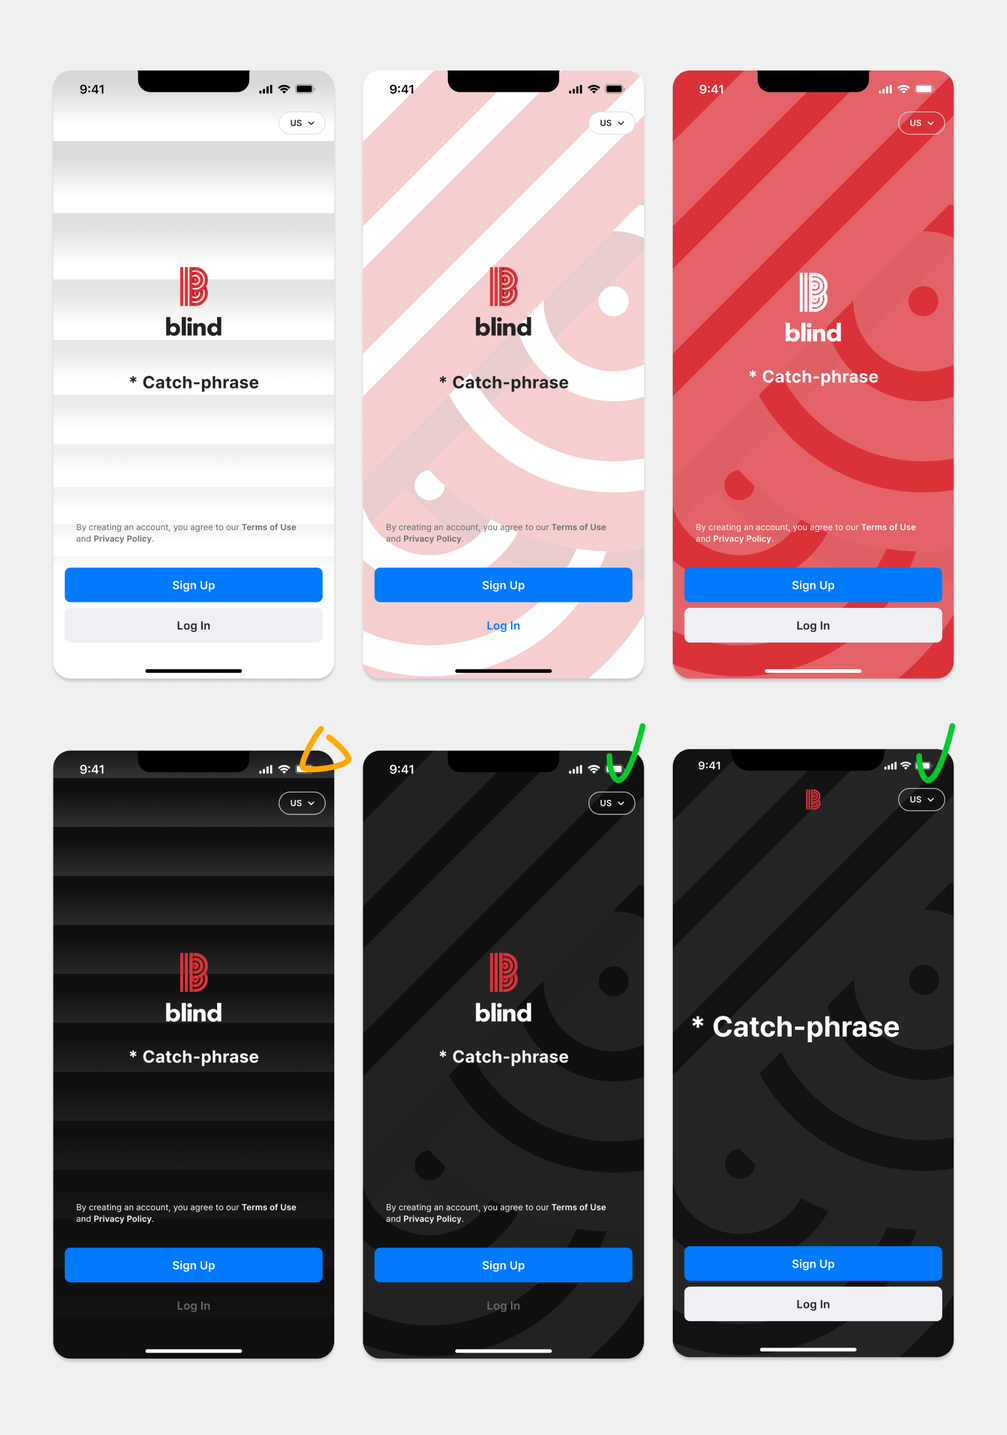
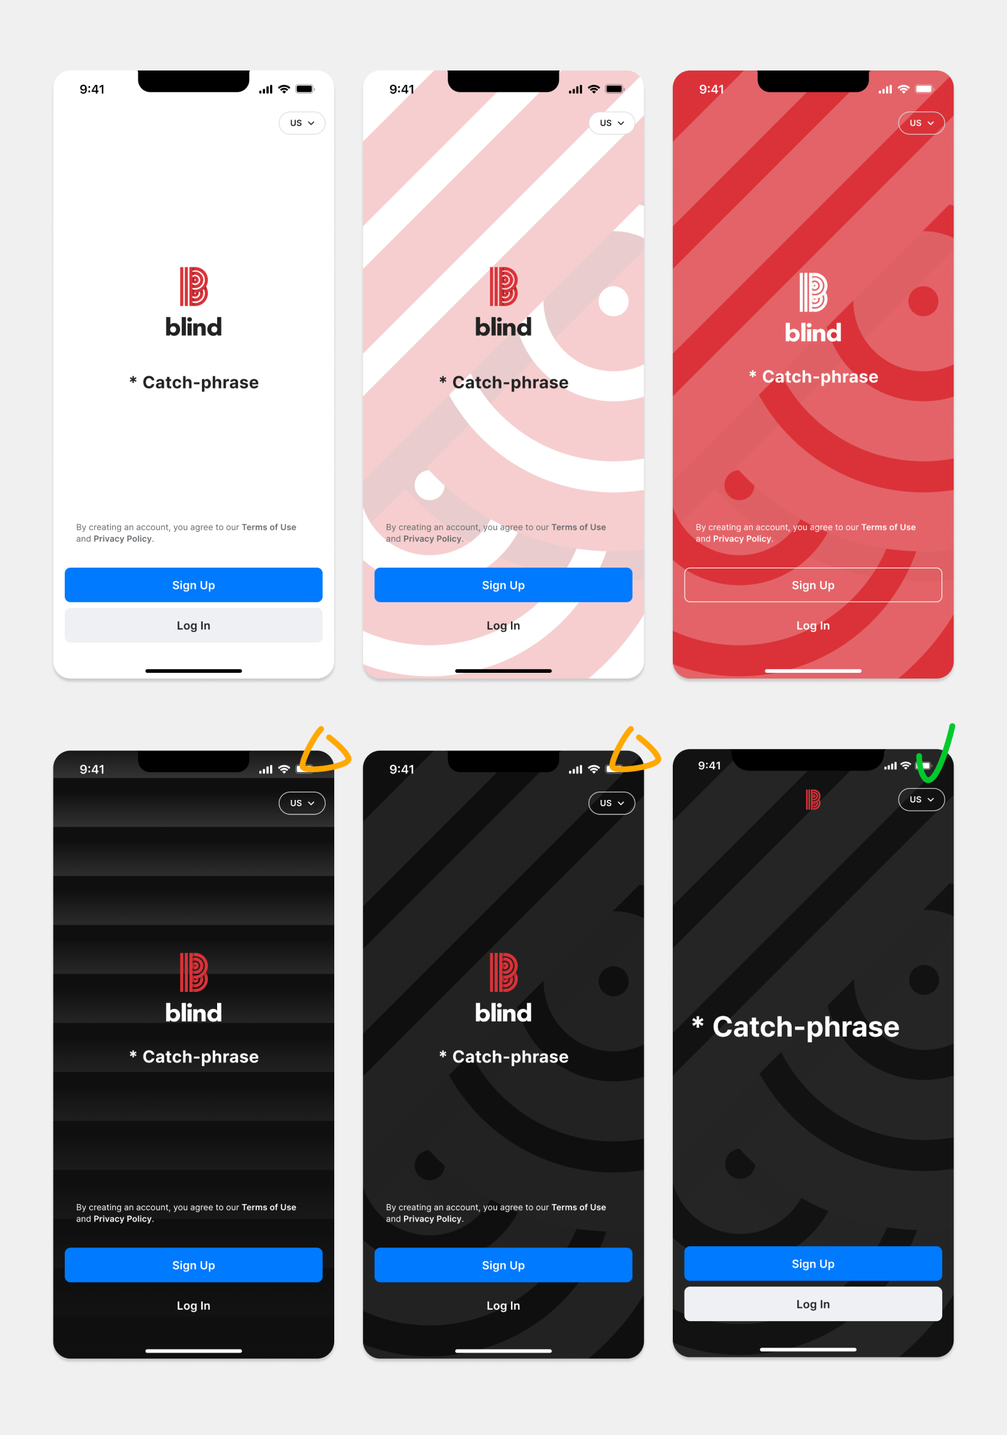
add project content

Changed region(s): [[0.0312, 0.0311, 0.3438, 0.218], [0.6562, 0.3737, 0.9375, 0.4671], [0.5938, 0.4982, 0.6562, 0.5605]]

diff --git a/onboarding/index.html b/onboarding/index.html
@@ -79,43 +79,36 @@
             <div class="cell">
                 <h2>Overview</h2>
                 <!--
-                <p>3.0 업데이트에 따라 블라인드의 대부분 화면이 새로운 비주얼과 UX로 변경되었지만 글쓰기 화면은 포함되지 못했습니다. 따라서 지난 데이터를 연구해 불필요한 사용자 경험을 제거하고 3.0 디자인 업데이트에 알맞은 GUI로 개선했습니다.</p>
+                <p lang="ko">블라인드의 온보딩 화면에 대한 개선은 이미 계획되어 있었고, 사용자들의 가입률과 편의성을 개선하고 브랜드 정체성을 강화시킬 수 있는 방법을 모색했습니다.</p>
                 -->
-                <p>With the 3.0 update, the majority of Blind's interface underwent a transformation with new visuals
-                    and improved user experience. However, the writing screen was not included in this update.
-                    Therefore, based on research of past data, we worked on enhancing the user experience by removing
-                    unnecessary elements and adapting the new GUI to align with the 3.0 design update. </p>
+                <p>Improvements to Blind's onboarding screen were already planned, aiming to enhance user signup rates,
+                    user convenience, and strengthen the brand identity. The goal was to explore methods that could
+                    improve the overall user experience and contribute to the brand's identity.</p>
                 <picture><img src="./source/onboarding-overview.jpg">
-                    <p class="caption">Blind 2.0</p>
+                    <p class="caption">As-is: Blind 2.0</p>
                 </picture>
                 <!--
-                <p>기존 블라인드의 글쓰기 경험은 게시글의 타입을 미리 선택할 수 있었습니다. 지난 데이터를 분석해 본 결과로 'Link'타입의 게시글의 비중이 굉장히 낮았으며, 'Link'를 포함한 게시글 또한 의미 있는 데이터를 보여주지 못했습니다. 따라서 글쓰기 화면 진입 시점에 게시글 타입을 선택하는 UI를 제거하고 즉시 글쓰기 화면으로 이동하도록 변경해 글쓰기 화면을 개선했습니다.</p>
+                <p lang="ko">사용자 데이터를 파악한 결과, 기존 블라인드 온보딩 화면의 여러 가이드 문구는 제대로 동작하지 않는다는 것을 파악했습니다. 따라서 불필요한 구성요소를 제거하고 각 기능의 우선순위를 새로 파악해 화면을 새로 구성하도록 기획했습니다.</p>
                 -->
-                <p>The writing experience on the existing Blind allowed users to pre-select the type of post.
-                    Upon analyzing past data, it was evident that the proportion of 'Link' type posts was remarkably
-                    low, and posts including links did not provide meaningful data. As a result, we improved the writing
-                    interface by removing the UI prompt to select the post type upon entering the writing screen.
-                    Instead, users are now immediately directed to the writing interface, streamlining the experience
-                    and eliminating the need for a separate post type selection step.</p>
+                <p>Upon analyzing user data, it was identified that several guide texts on the existing Blind onboarding
+                    screen were not functioning correctly. Consequently, a plan was devised to remove unnecessary
+                    components and restructure the screen by reassessing the priority of each feature.</p>
             </div>
             <div class="row">
                 <picture><img src="./source/onboarding-ui-01.jpg">
-                    <p class="caption">Blind 2.0: Onboarding catch-phrase</p>
+                    <p class="caption">As-is: Onboarding catch-phrase</p>
                 </picture>
             </div>
             <div class="cell">
                 <h2>Hero screen</h2>
                 <!--
-                <p>기존 블라인드의 글쓰기 경험은 게시글의 타입을 미리 선택할 수 있었습니다. 지난 데이터를 분석해 본 결과로 'Link'타입의 게시글의 비중이 굉장히 낮았으며, 'Link'를 포함한 게시글 또한 의미 있는 데이터를 보여주지 못했습니다. 따라서 글쓰기 화면 진입 시점에 게시글 타입을 선택하는 UI를 제거하고 즉시 글쓰기 화면으로 이동하도록 변경해 글쓰기 화면을 개선했습니다.</p>
+                <p lang="ko">기존 블라인드 온보딩 화면을 업데이트하면서, 가장 우선이 되는 사용자 옵션을 강조하는 형태로 변경되었습니다. 또한 브랜드 플레이를 통한 블라인드 고유의 패턴, 캐치프레이즈를 통해 브랜드 아이덴티티를 효과적으로 개선했습니다.</p>
                 -->
-                <p>The writing experience on the existing Blind allowed users to pre-select the type of post.
-                    Upon analyzing past data, it was evident that the proportion of 'Link' type posts was remarkably
-                    low, and posts including links did not provide meaningful data. As a result, we improved the writing
-                    interface by removing the UI prompt to select the post type upon entering the writing screen.
-                    Instead, users are now immediately directed to the writing interface, streamlining the experience
-                    and eliminating the need for a separate post type selection step.</p>
+                <p>During the update of the existing Blind onboarding screen, the focus shifted towards highlighting the
+                    most prioritized user options. Additionally, the incorporation of Blind's unique patterns and
+                    catchphrases through brand plays effectively enhanced the brand identity.</p>
                 <picture><img src="./source/onboarding-ui-02.jpg">
-                    <p class="caption">Blind 3.0</p>
+                    <p class="caption">To-be: Blind 3.0</p>
                 </picture>
             </div>
             <div class="row">
@@ -126,15 +119,15 @@
             <div class="cell">
                 <h2>Sign up UX</h2>
                 <!--
-                <p>기존 블라인드의 글쓰기 경험은 게시글의 타입을 미리 선택할 수 있었습니다. 지난 데이터를 분석해 본 결과로 'Link'타입의 게시글의 비중이 굉장히 낮았으며, 'Link'를 포함한 게시글 또한 의미 있는 데이터를 보여주지 못했습니다. 따라서 글쓰기 화면 진입 시점에 게시글 타입을 선택하는 UI를 제거하고 즉시 글쓰기 화면으로 이동하도록 변경해 글쓰기 화면을 개선했습니다.</p>
+                <p lang="ko">새로운 회원가입 프로세스는 사용자들이 회사 이메일을 사용할 수 있도록 강조된 화면을 제공하며, 개인용 이메일로 가입을 원하는 사용자들에게 회사 이메일과의 차이점을 안내해 다시 한번 회사 이메일로 가입할 수 있도록 유도하고 있습니다.</p>
                 -->
-                <p>The writing experience on the existing Blind allowed users to pre-select the type of post.
-                    Upon analyzing past data, it was evident that the proportion of 'Link' type posts was remarkably
-                    low, and posts including links did not provide meaningful data. As a result, we improved the writing
-                    interface by removing the UI prompt to select the post type upon entering the writing screen.
-                    Instead, users are now immediately directed to the writing interface, streamlining the experience
-                    and eliminating the need for a separate post type selection step.</p>
-                <picture><img src="./source/onboarding-ui-04.jpg"></picture>
+                <p>The new sign-up process emphasizes a screen where users can use their company email. For users who
+                    prefer to sign up with a personal email, guidance is provided explaining the differences between
+                    personal and company emails, encouraging them to reconsider and opt for the company email once
+                    again.</p>
+                <picture><img src="./source/onboarding-ui-04.jpg">
+                    <p class="caption">Permissions comparison: Work vs Personal email</p>
+                </picture>
             </div>
             <div class="row">
                 <picture><img src="./source/onboarding-ui-05.jpg">
@@ -142,21 +135,27 @@
                 </picture>
             </div>
             <div class="cell">
+                <h2>Performance</h2>
                 <!--
-                <p>기존 블라인드의 글쓰기 경험은 게시글의 타입을 미리 선택할 수 있었습니다. 지난 데이터를 분석해 본 결과로 'Link'타입의 게시글의 비중이 굉장히 낮았으며, 'Link'를 포함한 게시글 또한 의미 있는 데이터를 보여주지 못했습니다. 따라서 글쓰기 화면 진입 시점에 게시글 타입을 선택하는 UI를 제거하고 즉시 글쓰기 화면으로 이동하도록 변경해 글쓰기 화면을 개선했습니다.</p>
+                <p lang="ko">이 프로젝트를 통해 블라인드 브랜드의 비주얼 아이덴티티를 강화하고 블라인드 존재 의미를 사용자들에게 각인시킬 수 있었습니다. 또한 사용자들의 회원가입 절차 진입에 대한 전환율을 소폭 상승시켰습니다.</p>
                 -->
-                <p>The writing experience on the existing Blind allowed users to pre-select the type of post.
-                    Upon analyzing past data, it was evident that the proportion of 'Link' type posts was remarkably
-                    low, and posts including links did not provide meaningful data. As a result, we improved the writing
-                    interface by removing the UI prompt to select the post type upon entering the writing screen.
-                    Instead, users are now immediately directed to the writing interface, streamlining the experience
-                    and eliminating the need for a separate post type selection step.</p>
+                <p>
+                    Through this project, it was possible to strengthen the visual identity of the Blind brand and
+                    imprint the brand's sense of existence onto users. Additionally, there was a slight increase in the
+                    conversion rate for users entering the sign-up process.<br><br>
+                    <a href="https://apps.apple.com/us/app/blind-professional-community/id737534965"
+                        target="_blank">Blind /Download
+                        <svg width="24" height="24" viewBox="0 0 24 24" fill="none">
+                            <path
+                                d="M20.5 5C20.5 4.17157 19.8284 3.5 19 3.5H8C7.1716 3.5 6.5 4.17157 6.5 5C6.5 5.82843 7.1716 6.5 8 6.5H15.3787L2.9393 18.9393C2.3536 19.5251 2.3536 20.4749 2.9393 21.0607C3.5251 21.6464 4.4749 21.6464 5.0607 21.0607L17.5 8.62132V16C17.5 16.8284 18.1716 17.5 19 17.5C19.8284 17.5 20.5 16.8284 20.5 16V5Z" />
+                        </svg></a>
+                </p>
                 <picture><img src="./source/onboarding-performance.jpg"></picture>
                 <hr>
                 <h3>Blind onboarding 2.0</h3>
                 <p><strong>Company:</strong> Blind<br><strong>Role:</strong> Product design<br>
-                    <strong>Responsibilities:</strong> Led the design process to apply a common specification of design
-                    across Blind in both Korea and the U.S based on past data.<br>
+                    <strong>Responsibilities:</strong> Closely collaborated with the U.S Design Lead, taking the lead in
+                    designing the visual identity and the sign-up process.<br>
                     <strong>Tools:</strong> Figma, Mixpanel<br><strong>Duration:</strong> Teamwork, 2022
                 </p>
             </div>

diff --git a/offereval/index.html b/offereval/index.html
@@ -79,7 +79,7 @@
             <div class="cell">
                 <h2>Overview</h2>
                 <!--
-                <p>2022년 미국 고용시장의 대규모 구조조정 사태에 따라 블라인드의 많은 사용자들은 블라인드를 통해 새로운 기회를 찾고 다른 사용자들의 의견을 통해 비교하고 있었습니다. 블라인드는 이 기회를 통해 사용자들이 더 편리하게 Offer를 비교하고 소통할 수 있도록 새로운 입력 포맷을 제공해 앱의 콘텐츠 다양성과 사용자 데이터를 확보할 수 있도록 했습니다.</p>
+                <p lang="ko">2022년 미국 고용시장의 대규모 구조조정 사태에 따라 블라인드의 많은 사용자들은 블라인드를 통해 새로운 기회를 찾고 다른 사용자들의 의견을 통해 비교하고 있었습니다. 블라인드는 이 기회를 통해 사용자들이 더 편리하게 Offer를 비교하고 소통할 수 있도록 새로운 입력 포맷을 제공해 앱의 콘텐츠 다양성과 사용자 데이터를 확보할 수 있도록 했습니다.</p>
                 -->
                 <p>In 2022, following significant workforce restructuring events in the U.S. job market, many Blind
                     users were leveraging the platform to explore new opportunities and compare them through the
@@ -88,7 +88,7 @@
                     diversify the content on the app and gather user data effectively.</p>
                 <picture><img src="./source/offereval-overview.jpg"></picture>
                 <!--
-                <p>기존 블라인드 사용자들은 각 Offer 비교 항목을 직접 작성하는 경험을 갖고 있었고 이를 당연하게 여기고 있었습니다. 사용자의 불편한 경험을 직접적으로 해소하는 기능을 선제적으로 제공함으로써 블라인드와 사용자를 더 강하게 연결하길 기대했습니다.</p>
+                <p lang="ko">기존 블라인드 사용자들은 각 Offer 비교 항목을 직접 작성하는 경험을 갖고 있었고 이를 당연하게 여기고 있었습니다. 사용자의 불편한 경험을 직접적으로 해소하는 기능을 선제적으로 제공함으로써 블라인드와 사용자를 더 강하게 연결하길 기대했습니다.</p>
                 -->
                 <p>Existing Blind users had the experience of directly entering each offer comparison item and regarded
                     it as a natural part of the process. By proactively providing a feature that directly addressed
@@ -106,7 +106,7 @@
             </div>
             <div class="cell">
                 <!--
-                <p>미국의 대규모 구조조정 사태 이후 전체 게시글 중 24%에 해당하는 게시글이 'Offer evaluation'과 연관되어 있었습니다. 이 중 새로운 입력 포맷을 통해 40%에 해당하는 게시글을 새로운 입력 포맷으로 게시글이 생산될 수 있도록 목표 설정을 했습니다. 또한 더 편리한 입력 포맷을 제공함으로써 더 많은 콘텐츠가 생산될 수 있도록 기대했습니다.</p>
+                <p lang="ko">미국의 대규모 구조조정 사태 이후 전체 게시글 중 24%에 해당하는 게시글이 'Offer evaluation'과 연관되어 있었습니다. 이 중 새로운 입력 포맷을 통해 40%에 해당하는 게시글을 새로운 입력 포맷으로 게시글이 생산될 수 있도록 목표 설정을 했습니다. 또한 더 편리한 입력 포맷을 제공함으로써 더 많은 콘텐츠가 생산될 수 있도록 기대했습니다.</p>
                 -->
                 <p>After the large-scale restructuring events in the U.S., 24% of all posts on Blind were found to be
                     associated with 'Offer evaluation.' Among these, a goal was set to generate 40% of posts in the new
@@ -117,7 +117,7 @@
                 </picture>
                 <h2>Structure</h2>
                 <!--
-                <p>미국의 시장 상황에 따라 이 기능의 수요가 빠르게 증가하고 있었고, 사용자에게 필요한 기능을 최소한으로 선별해 신규 기능을 빠르게 론칭하는것에 초점을 두었습니다. 새로운 Job의 금전 보상뿐만 아니라, 성장 가능성, 접근성 등을 고려한 옵션들을 추가해 다양한 관점에서 사용자들이 'Offer'를 비교하고 소통할 수 있도록 항목을 선별했습니다. 또한 'History' 기능을 제공해 사용자가 원하는 다양한 토픽에서 빠르게 데이터를 불러올 수 있도록 편의 기능을 추가했습니다.</p>
+                <p lang="ko">미국의 시장 상황에 따라 이 기능의 수요가 빠르게 증가하고 있었고, 사용자에게 필요한 기능을 최소한으로 선별해 신규 기능을 빠르게 론칭하는것에 초점을 두었습니다. 새로운 Job의 금전 보상뿐만 아니라, 성장 가능성, 접근성 등을 고려한 옵션들을 추가해 다양한 관점에서 사용자들이 'Offer'를 비교하고 소통할 수 있도록 항목을 선별했습니다. 또한 'History' 기능을 제공해 사용자가 원하는 다양한 토픽에서 빠르게 데이터를 불러올 수 있도록 편의 기능을 추가했습니다.</p>
                 -->
                 <p>Given the rapidly increasing demand for this feature in response to the U.S. market conditions, the
                     focus was on selectively launching new features quickly by identifying the minimum necessary
@@ -141,7 +141,7 @@
             <div class="cell">
                 <h2>Entry point</h2>
                 <!--
-                <p>Composer에 추가된 새로운 기능의 진입점을 사용자들이 빠르게 인지할 수 있도록 돋보이면서도 게시글 작성에 간섭하지 않는 형태의 UI를 빠르고 다양하게 테스트했습니다. 새로운 진입점은 'Tool tip', 'Coach mark'와 같은 보조적인 가이드 UI가 없더라도 사용자들이 쉽게 눈치채고 사용할 수 있도록 직관적이어야 했습니다. 저는 3가지 방법을 빠르게 테스트했고, 그 결과 가장 강력한 접근성을 제공하는 FAB를 적용하기로 결정했습니다.</p>
+                <p lang="ko">Composer에 추가된 새로운 기능의 진입점을 사용자들이 빠르게 인지할 수 있도록 돋보이면서도 게시글 작성에 간섭하지 않는 형태의 UI를 빠르고 다양하게 테스트했습니다. 새로운 진입점은 'Tool tip', 'Coach mark'와 같은 보조적인 가이드 UI가 없더라도 사용자들이 쉽게 눈치채고 사용할 수 있도록 직관적이어야 했습니다. 저는 3가지 방법을 빠르게 테스트했고, 그 결과 가장 강력한 접근성을 제공하는 FAB를 적용하기로 결정했습니다.</p>
                 -->
                 <p>To ensure users quickly recognize the entry point of the newly added features in Composer, I
                     conducted rapid and diverse tests on a UI that stands out without interfering with the post creation
@@ -159,7 +159,7 @@
             <div class="cell">
                 <h2>Performance</h2>
                 <!--
-                <p>이 프로젝트는 초기 목표보다 24% 높은 수치의 'Offer evaluation' 연관 게시글을 새로운 입력 포맷으로 전환했습니다. 또한 예상치 못한 성과로는, 사용자들이 비교의 목적으로 이 기능을 사용하지 않고 현재 급여 수준을 판단하기 위한 기능으로도 사용되는 것을 확인했으며 'Offer evaluation' 연관 게시글을 새로운 입력 포맷 론칭 후 32%가 증가했습니다.</p>
+                <p lang="ko">이 프로젝트는 초기 목표보다 24% 높은 수치의 'Offer evaluation' 연관 게시글을 새로운 입력 포맷으로 전환했습니다. 또한 예상치 못한 성과로는, 사용자들이 비교의 목적으로 이 기능을 사용하지 않고 현재 급여 수준을 판단하기 위한 기능으로도 사용되는 것을 확인했으며 'Offer evaluation' 연관 게시글을 새로운 입력 포맷 론칭 후 32%가 증가했습니다.</p>
                 -->
                 <p>This project successfully achieved a conversion of 'Offer evaluation' related posts to the new input
                     format, surpassing the initial goal by 24%. Unexpectedly, it was observed that users not only

diff --git a/composer/index.html b/composer/index.html
@@ -79,18 +79,18 @@
             <div class="cell">
                 <h2>Overview</h2>
                 <!--
-                <p>3.0 업데이트에 따라 블라인드의 대부분 화면이 새로운 비주얼과 UX로 변경되었지만 글쓰기 화면은 포함되지 못했습니다. 따라서 지난 데이터를 연구해 불필요한 사용자 경험을 제거하고 3.0 디자인 업데이트에 알맞은 GUI로 개선했습니다.</p>
+                <p lang="ko">3.0 업데이트에 따라 블라인드의 대부분 화면이 새로운 비주얼과 UX로 변경되었지만 글쓰기 화면은 포함되지 못했습니다. 따라서 지난 데이터를 연구해 불필요한 사용자 경험을 제거하고 3.0 디자인 업데이트에 알맞은 GUI로 개선했습니다.</p>
                 -->
                 <p>With the 3.0 update, the majority of Blind's interface underwent a transformation with new visuals
                     and improved user experience. However, the writing screen was not included in this update.
                     Therefore, based on research of past data, we worked on enhancing the user experience by removing
-                    unnecessary elements and adapting the new GUI to align with the 3.0 design update. </p>
+                    unnecessary elements and adapting the new GUI to align with the 3.0 design update.</p>
                 <picture><img src="./source/composer-overview.jpg">
-                    <p class="caption">Blind 2.0</p>
+                    <p class="caption">As-is: Blind 2.0</p>
                 </picture>
                 <picture><img src="./source/composer-data.jpg"></picture>
                 <!--
-                <p>기존 블라인드의 글쓰기 경험은 게시글의 타입을 미리 선택할 수 있었습니다. 지난 데이터를 분석해 본 결과로 'Link'타입의 게시글의 비중이 굉장히 낮았으며, 'Link'를 포함한 게시글 또한 의미 있는 데이터를 보여주지 못했습니다. 따라서 글쓰기 화면 진입 시점에 게시글 타입을 선택하는 UI를 제거하고 즉시 글쓰기 화면으로 이동하도록 변경해 글쓰기 화면을 개선했습니다.</p>
+                <p lang="ko">기존 블라인드의 글쓰기 경험은 게시글의 타입을 미리 선택할 수 있었습니다. 지난 데이터를 분석해 본 결과로 'Link'타입의 게시글의 비중이 굉장히 낮았으며, 'Link'를 포함한 게시글 또한 의미 있는 데이터를 보여주지 못했습니다. 따라서 글쓰기 화면 진입 시점에 게시글 타입을 선택하는 UI를 제거하고 즉시 글쓰기 화면으로 이동하도록 변경해 글쓰기 화면을 개선했습니다.</p>
                 -->
                 <p>The writing experience on the existing Blind allowed users to pre-select the type of post.
                     Upon analyzing past data, it was evident that the proportion of 'Link' type posts was remarkably
@@ -99,7 +99,7 @@
                     Instead, users are now immediately directed to the writing interface, streamlining the experience
                     and eliminating the need for a separate post type selection step.</p>
                 <picture><img src="./source/composer-ui.jpg">
-                    <p class="caption">Blind 3.0</p>
+                    <p class="caption">To-be: Blind 3.0</p>
                 </picture>
                 <hr>
                 <h3>Blind composer 2.0</h3>
